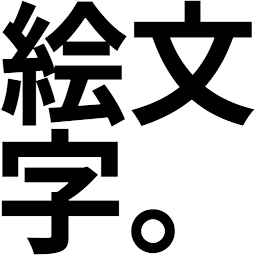
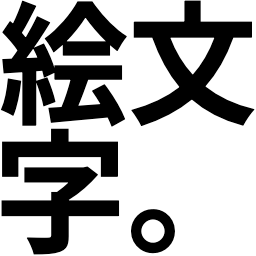
docs: update docs [ci skip]

diff --git a/README.md b/README.md
@@ -59,6 +59,8 @@ int main(void) {
     params.fText = "絵文\n字。";
     params.fWidth = 256;
     params.fHeight = 256;
+    params.fColor = 0xFF000000; // ARGB
+    params.fBackgroundColor = 0xFFFFFFFF; // ARGB
 
     EgGenerateResult result;
     if (emoji_generate(&params, &result) != EG_OK) {